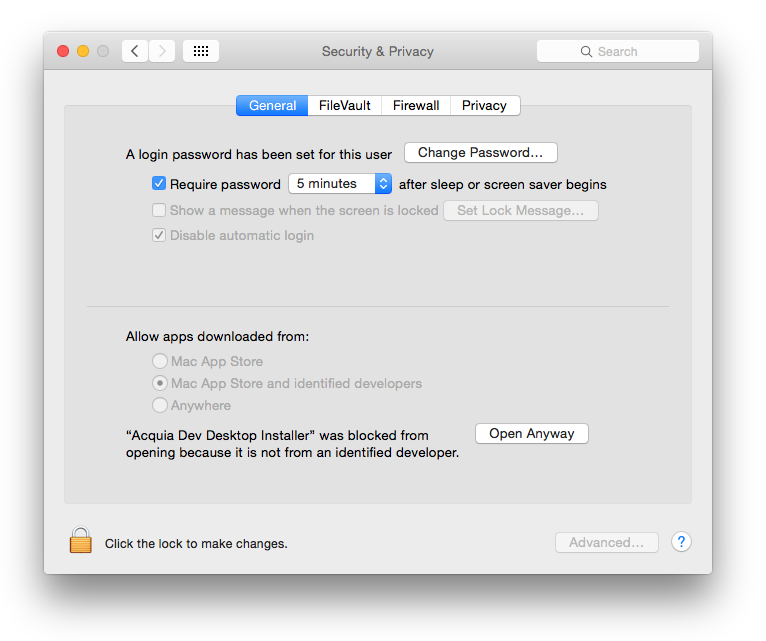
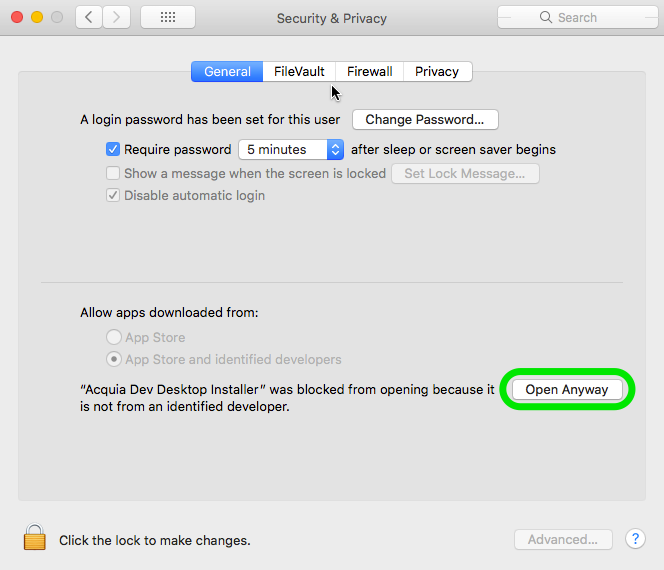
O3 Fine-tune the Dev Desktop installation
Plus a bunch of unrelated changes which appear to be only whitespace.

Changed region(s): [[0.0, 0.0, 1.0, 0.9842], [0.0904, 0.8351, 0.3916, 0.8649], [0.753, 0.8351, 0.8133, 0.8649]]

diff --git a/nl/source/devenv/o3-installation-manual.md b/nl/source/devenv/o3-installation-manual.md
@@ -1,155 +1,171 @@
 Installeer Drupal op je computer
 ================================
-Dit is de installatiehandleiding voor de Acquia Dev Desktop op een mac. Heb je 
-Windows, dan kan je [hier]() terecht. De installatie verloopt in drie stappen:
+Om Drupal te kunnen gebruiken op je eigen computer of laptop zijn er een aantal
+stappen nodig:
 
 1. Er moeten een webserver en databaseserver op je systeem geïnstalleerd worden.
 2. De Drupal 8 bestanden moeten geïnstalleerd worden.
 3. Drupal 8 moet zijn eigen database installeren.
 
-We werken bij *Drupal in a Day* met de Acquia Dev Desktop. Deze kun je 
-downloaden op de [download-pagina van het Acquia Developer 
-Center](https://dev.acquia.com/downloads).
+We werken bij *Drupal in a Day* met de *Acquia Dev Desktop*. In dit hoofdstuk
+vind je instructies voor het installeren van de Dev Desktop op zowel Windows als
+Mac. Maak je gebruik van een ander systeem, bijv. Linux, dan kun je gewoon
+meedoen met het cursusgedeelte van *Drupal in a Day*, maar je bent wel op jezelf
+aangewezen voor het installeren van de benodigde software. Grofweg zijn de
+bovenstaande drie stappen hetzelfde. Heb je eenmaal een webserver en database
+draaiend en heb je de Drupal-distributie voor *Drupal in a Day* gedownload, dan
+zijn de stappen voor het installeren van Drupal ook gelijk en kun je verder bij
+de sectie [Drupal installeren](#drupal-installeren).
 
-Kies voor *Mac Download* en wacht tot het bestand is gedownload. Dubbelklik het
-dan om de disk image te openen.
+De Acquia Dev Desktop kun je downloaden op de [download-pagina van het Acquia
+Developer Center](https://dev.acquia.com/downloads). Kies voor *Mac Download* of
+*Win Download*, afhankelijk van het systeem waar je het op gaat installeren.
 
 Web server en database installeren
 --------------------
-Eerst gaan we de Dev Desktop op je computer installeren zodat de webserver en de 
-databaseserver op je systeem komen te staan. Nadat je de disk image geopend hebt
-kun je de Installer starten (dubbelklik op het blauwe icoontje genaamd 
-*Acquia Dev Desktop Installer*):
+### Mac
+Als de download klaar is open je op het bestand (disk image). Dubbelklik nu op 
+het blauwe icoontje genaamd *Acquia Dev Desktop Installer* om de installer te 
+starten:
 
-![Finder-venster met de inhoud van het Acquia Dev Desktop disk 
+![Finder-venster met de inhoud van het Acquia Dev Desktop disk
 image.](../_static/images/devenv/installation-manual/image12.png)
 
-Het kan zijn dat je daarop een foutmelding te zien krijgt omdat het bestand
-afkomstig is van een onbekende ontwikkelaar. Dit is een veiligheidsmaatregel van 
-Apple.
- 
-![Popup die aangeeft dat de installer geblokkeerd 
+Waarschijnlijk krijg je nu een foutmelding te zien omdat het bestand afkomstig 
+is van een voor Apple onbekende ontwikkelaar.
+
+![Popup die aangeeft dat de installer geblokkeerd
 is.](../_static/images/devenv/installation-manual/image8.png)
 
-Krijg je deze foutmelding te zien, dan open je eerst *Systeemvoorkeuren* 
-(*System Preferences*). Hier kies je voor *Veiligheid & Privacy* (*Security & 
-Privacy*). Daar vind je je onder het tabje *Algemeen* (*General*) een tekst 
-die aangeeft dat Acquia Dev Desktop geblokkeerd is. Ernaast staat een 
+Krijg je deze foutmelding te zien, dan klik je deze eerst weg door op *OK* te 
+klikken. Hierna open je *Systeemvoorkeuren*
+(*System Preferences*). Hier kies je voor *Veiligheid & Privacy* (*Security &
+Privacy*).
+
+![Systeemvoorkeuren met Veiligheid & Privacy gemarkeerd.](../_static/images/devenv/installation-manual/image21.png)
+
+Daar vind je je onder het tabje *Algemeen* (*General*) een tekst
+die aangeeft dat Acquia Dev Desktop geblokkeerd is. Ernaast staat een
 knop om de installer alsnog te starten. Klik op die knop.
 
-![Veiligheid & Privacy systeemvoorkeuren met melding dat Dev Desktop is 
+![Veiligheid & Privacy systeemvoorkeuren met melding dat Dev Desktop is
 geblokkeerd.](../_static/images/devenv/installation-manual/image3.png)
 
-De Installer zal nu openen.
+Je krijgt nu normaals een waarschuwing, maar nu kun je *Open* kiezen. Je Mac zal 
+je enkele keren vragen om je wachtwoord om de Installer op te slaan als 
+goedgekeurd programma. Hierna zal de installer starten.
 
-![Openingscherm van Dev Desktop 
+![Openingscherm van Dev Desktop
 Installer.](../_static/images/devenv/installation-manual/image19.png)
 
-Klik op *Next* om de installatie te starten.
+Klik op *Next* om de installatie te starten. Je krijgt een samenvatting te zien 
+van de software die op je computer geïnstalleerd gaat worden. Ga verder door op 
+*Next* te klikken.
 
-![Overzicht van software die Dev Desktop zal 
+![Overzicht van software die Dev Desktop zal
 installeren.](../_static/images/devenv/installation-manual/image17.png)
 
-Je krijgt een samenvatting te zien van de software die op je computer 
-geïnstalleerd gaat worden. Ga verder door op *Next* te klikken.
+De installer toont de algemene voorwaarden en geeft je de keuze om wel of niet
+data omtrend het gebruik van de Dev Desktop te delen met Acquia. Die keuze is
+aan jou! Als je gekozen hebt, kan je *Next* klikken om verder te gaan.
 
 ![Scherm met algemene voorwaarden.](../_static/images/devenv/installation-manual/image6.png)
 
-De installer toont de algemene voorwaarden en geeft je de keuze om wel of niet 
-data omtrend het gebruik van de Dev Desktop te delen met Acquia. Die keuze is 
-aan jou! Als je gekozen hebt, kan je *Next* klikken om verder te gaan.
+Je krijgt nu je de mogelijkheid om de locatie van de installatiebestanden te 
+kiezen. Laat de standaard-instellingen staan, tenzij je een andere voorkeur hebt 
+(en je weet wat je doet). Kies daarna weer voor *Next* om verder te gaan.
 
-![Scherm met keuze van locaties voor programmabestanden en sites 
-map.](../_static/images/devenv/installation-manual//image5.png)
+![Scherm met keuze van locaties voor programmabestanden en sites
+map.](../_static/images/devenv/installation-manual/image5.png)
 
-Hier kan je aangeven waar dat de installer de files moet plaatsen op je 
-computer. Indien gewenst (en je weet wat je doet) dan kun je die aanpassen. Kies 
-daarna weer voor *Next* om 
-verder te gaan.
- 
+Vervolgens wordt je gevraagd welke poorten er gebruikt mogen worden voor de
+webserver en de database. Ook hier geldt dat de standaard instellingen 
+overgenomen kunnen worden als je geen speciale reden hebt om ze aan te passen.
+Klik op *Next* om verder te gaan.
+
 ![Scherm voor instellen poorten voor HTTP, HTTPS en MySQL.](../_static/images/devenv/installation-manual/image2.png)
 
-Vervolgens wordt je gevraagd welke poorten er gebruikt mogen worden voor de 
-webserver en de database. Deze staan goed ingevuld, maar als weet wat je 
-doet dan mogen ze hier aangepast worden. Klik op *Next* om verder te gaan. 
+De installer toon nog een laatste keer een overzicht van je keuzes. Als ze goed 
+staan kan je op *Next* klikken om verder te gaan. 
 
 ![Controlescherm voor keuze poorten.](../_static/images/devenv/installation-manual/image10.png)
 
-De Dev Desktop toont nogmaals de poorten. Als ze goed staan kan je op *Next* 
-klikken om verder te gaan.
-
-![Scherm dat aangeeft dat de installatie begonnen kan 
-worden.](../_static/images/devenv/installation-manual/image11.png)
-
-De Dev Desktop installer is nu helemaal klaar om te gaan installeren. Klik op 
+De Dev Desktop installer is nu helemaal klaar om te gaan installeren. Klik op
 *Next* om het installeren te starten.
 
-![Voortgangsscherm tijdens installatie.](../_static/images/devenv/installation-manual/image18.png)
+![Scherm dat aangeeft dat de installatie begonnen kan
+worden.](../_static/images/devenv/installation-manual/image11.png)
 
 Pak iets te drinken terwijl je computer druk bezig is met installeren.
 
-![Laatste scherm installatie Dev 
-Desktop.](../_static/images/devenv/installation-manual/image15.png)
+![Voortgangsscherm tijdens installatie.](../_static/images/devenv/installation-manual/image18.png)
 
 Het is zover! De Dev Desktop is op je computer geïnstalleerd. Klik op *Finish*
-om de Dev Desktop op te starten en ga door met het tweede deel van de 
+om de Dev Desktop op te starten en ga door met het tweede deel van de
 installatiehandleiding om je eigen Drupal 8 site te installeren.
+
+![Laatste scherm installatie Dev
+Desktop.](../_static/images/devenv/installation-manual/image15.png)
+
+### Windows
+TODO.
 
 Drupal-distributie kiezen
 -----------------------
-Nu de webserver en database op je systeem geïnstalleerd zijnis, volgen de 
-stappen om een Drupal 8 website te installeren op je systeem. Als je de 
-Dev Desktop nog niet opgestart had, doe dat dan nu. Je krijgt het volgende 
-scherm te zien:
+Nu de webserver en database op je systeem geïnstalleerd zijn, volgen de
+stappen om een Drupal 8 website te installeren op je systeem. De screenshots
+tonen de Mac-versie, maar de stappen zijn in principe gelijk voor de Windows-
+versie. Als je de Dev Desktop nog niet opgestart had, doe dat dan nu. Je krijgt 
+het volgende scherm te zien:
 
-![Scherm voor eerste keer starten Dev 
+![Scherm voor eerste keer starten Dev
 Desktop.](../_static/images/devenv/installation-manual/image16.png)
 
-Omdat we nog geen Drupal 8 website hebben, kiezen we hier voor de eerste optie 
-om deze te installeren.
+Omdat we nog geen Drupal 8 website hebben, kiezen we hier voor de eerste optie
+om deze te installeren; *Start from scratch, I don't have an existing Drupal site*.
 
 ![](../_static/images/devenv/installation-manual/image7.png)
 
-In de lijst die je vervolgens te zien krijgt, kies je *Drupal 8* en klik je op 
-*install*. 
+In de lijst die je vervolgens te zien krijgt, kies je *Drupal 8* en klik je op
+*install*.
 
 Het kan zijn de de versie bij jou anders is dan hier afgebeeld, dat is niet erg.
 
 ![](../_static/images/devenv/installation-manual/image20.png)
 
-Geef je nieuwe Drupal website een naam. Je kan 'drupal-8-2-6' laten staan, maar 
-kan hier ook je eigen site naam opgeven. (Dit mag je ook voor de database doen, 
-maar let op dat je alleen gewone tekens gebruikt en geen spaties). Klik op 
+Geef je nieuwe Drupal website een naam. Je kan 'drupal-8-2-6' laten staan, maar
+kan hier ook je eigen site naam opgeven. (Dit mag je ook voor de database doen,
+maar let op dat je alleen gewone tekens gebruikt en geen spaties). Klik op
 *Finish* als je klaar bent om verder te gaan.
 
 ![](../_static/images/devenv/installation-manual/image14.png)
 
-Yes! Het is gelukt! De website staat klaar voor jou om ermee aan de slag te 
-gaan. Klik op het linkje bij *Local site* om aan het laatste onderdeel van de 
+Yes! Het is gelukt! De website staat klaar voor jou om ermee aan de slag te
+gaan. Klik op het linkje bij *Local site* om aan het laatste onderdeel van de
 installatie te beginnen&hellip;
 
 De installatie - deel 3
 -----------------------
-De Drupal 8 bestanden staan nu op je computer. Het laatste wat moet gebeuren is 
-dat Drupal zichzelf installeert. Dat gaan we nu doen. Als je de link in de Dev 
-Desktop hebt aangeklikt opent je webbrowser zich en verschijnt de Drupal 
+De Drupal 8 bestanden staan nu op je computer. Het laatste wat moet gebeuren is
+dat Drupal zichzelf installeert. Dat gaan we nu doen. Als je de link in de Dev
+Desktop hebt aangeklikt opent je webbrowser zich en verschijnt de Drupal
 installatie pagina.
 
 ![](../_static/images/devenv/installation-manual/image4.png)
 
 Kies hier jouw taal en klik op *Save and Continue*.
 
-**Belangrijk**: als je een andere taal kiest, moet je zorgen dat jouw systeem 
-een actieve internet verbinden heeft zodat het de juiste vertaling kan 
+**Belangrijk**: als je een andere taal kiest, moet je zorgen dat jouw systeem
+een actieve internet verbinden heeft zodat het de juiste vertaling kan
 downloaden.
 
 ![](../_static/images/devenv/installation-manual/image1.png)
 
 Drupal gaat aan de slag om zichzelf te installeren&hellip;
- 
+
 ![](../_static/images/devenv/installation-manual/image9.png)
 
-De laatste stap voor je aan de slag kan. Vul hier alle gegevens voor je website 
+De laatste stap voor je aan de slag kan. Vul hier alle gegevens voor je website
 in. In de cursus leggen we uit hoe je deze informatie later kan aanpassen.
 
 Klik op *Finish* om af te ronden en je eigen Drupal website te zien.
